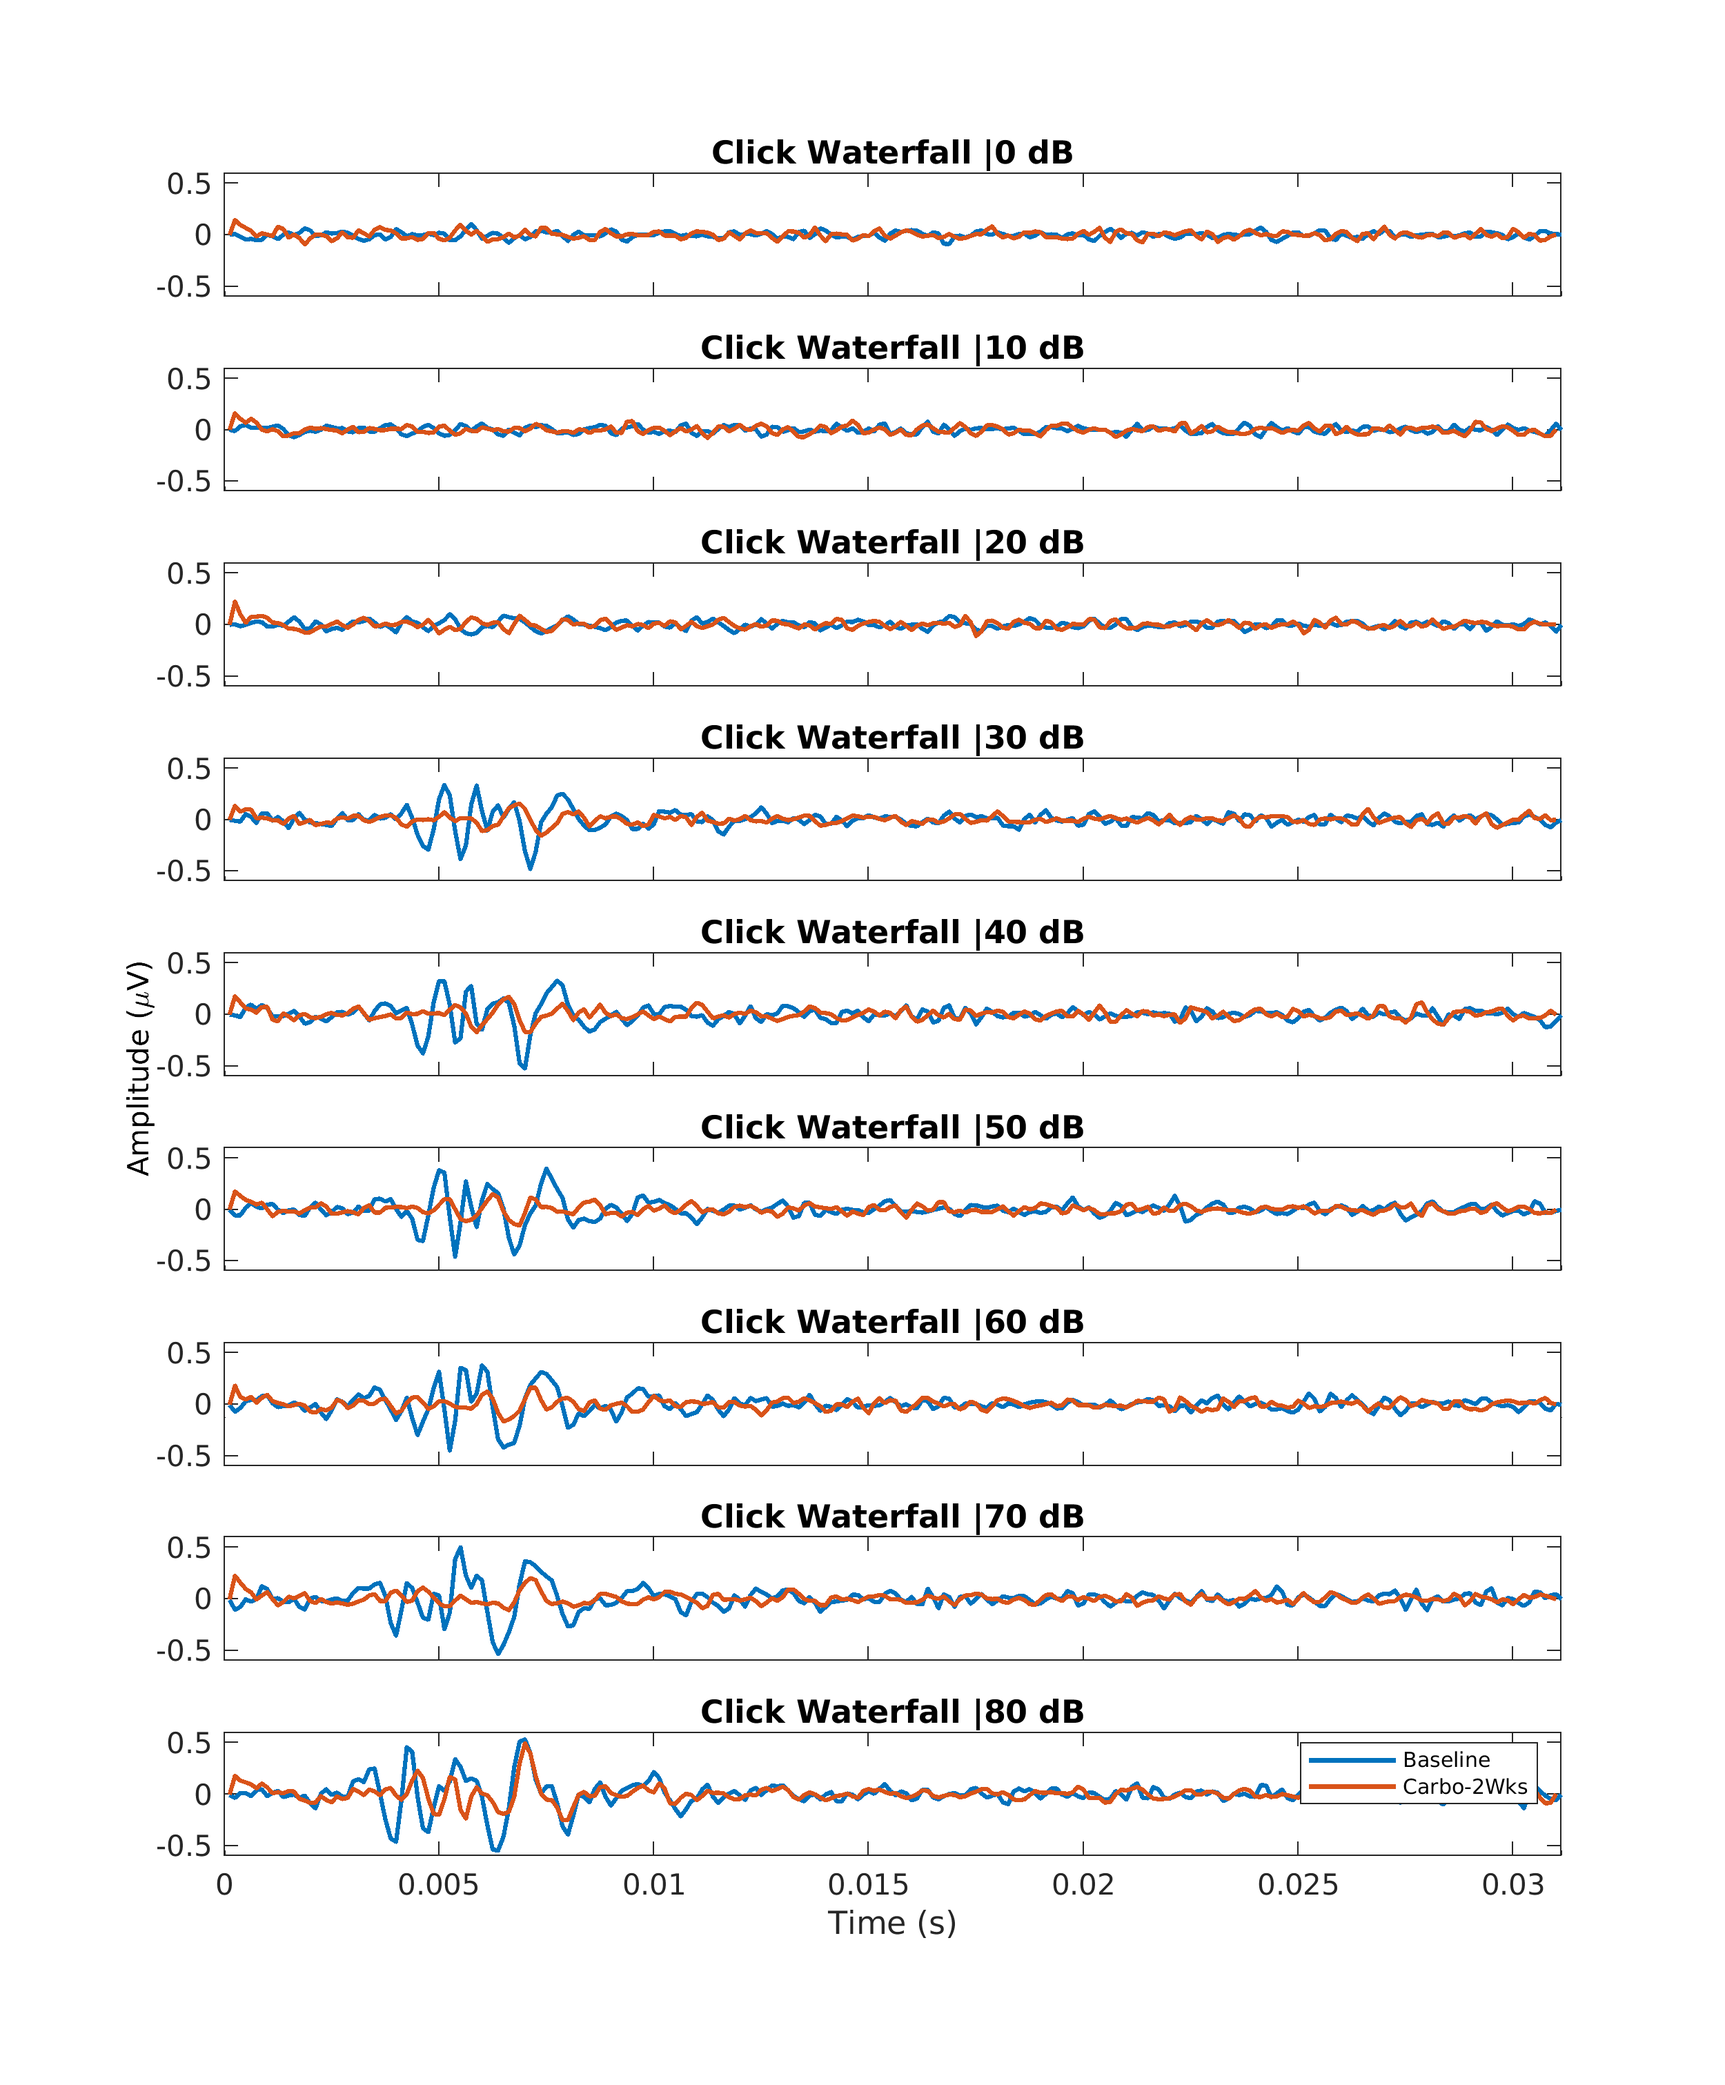
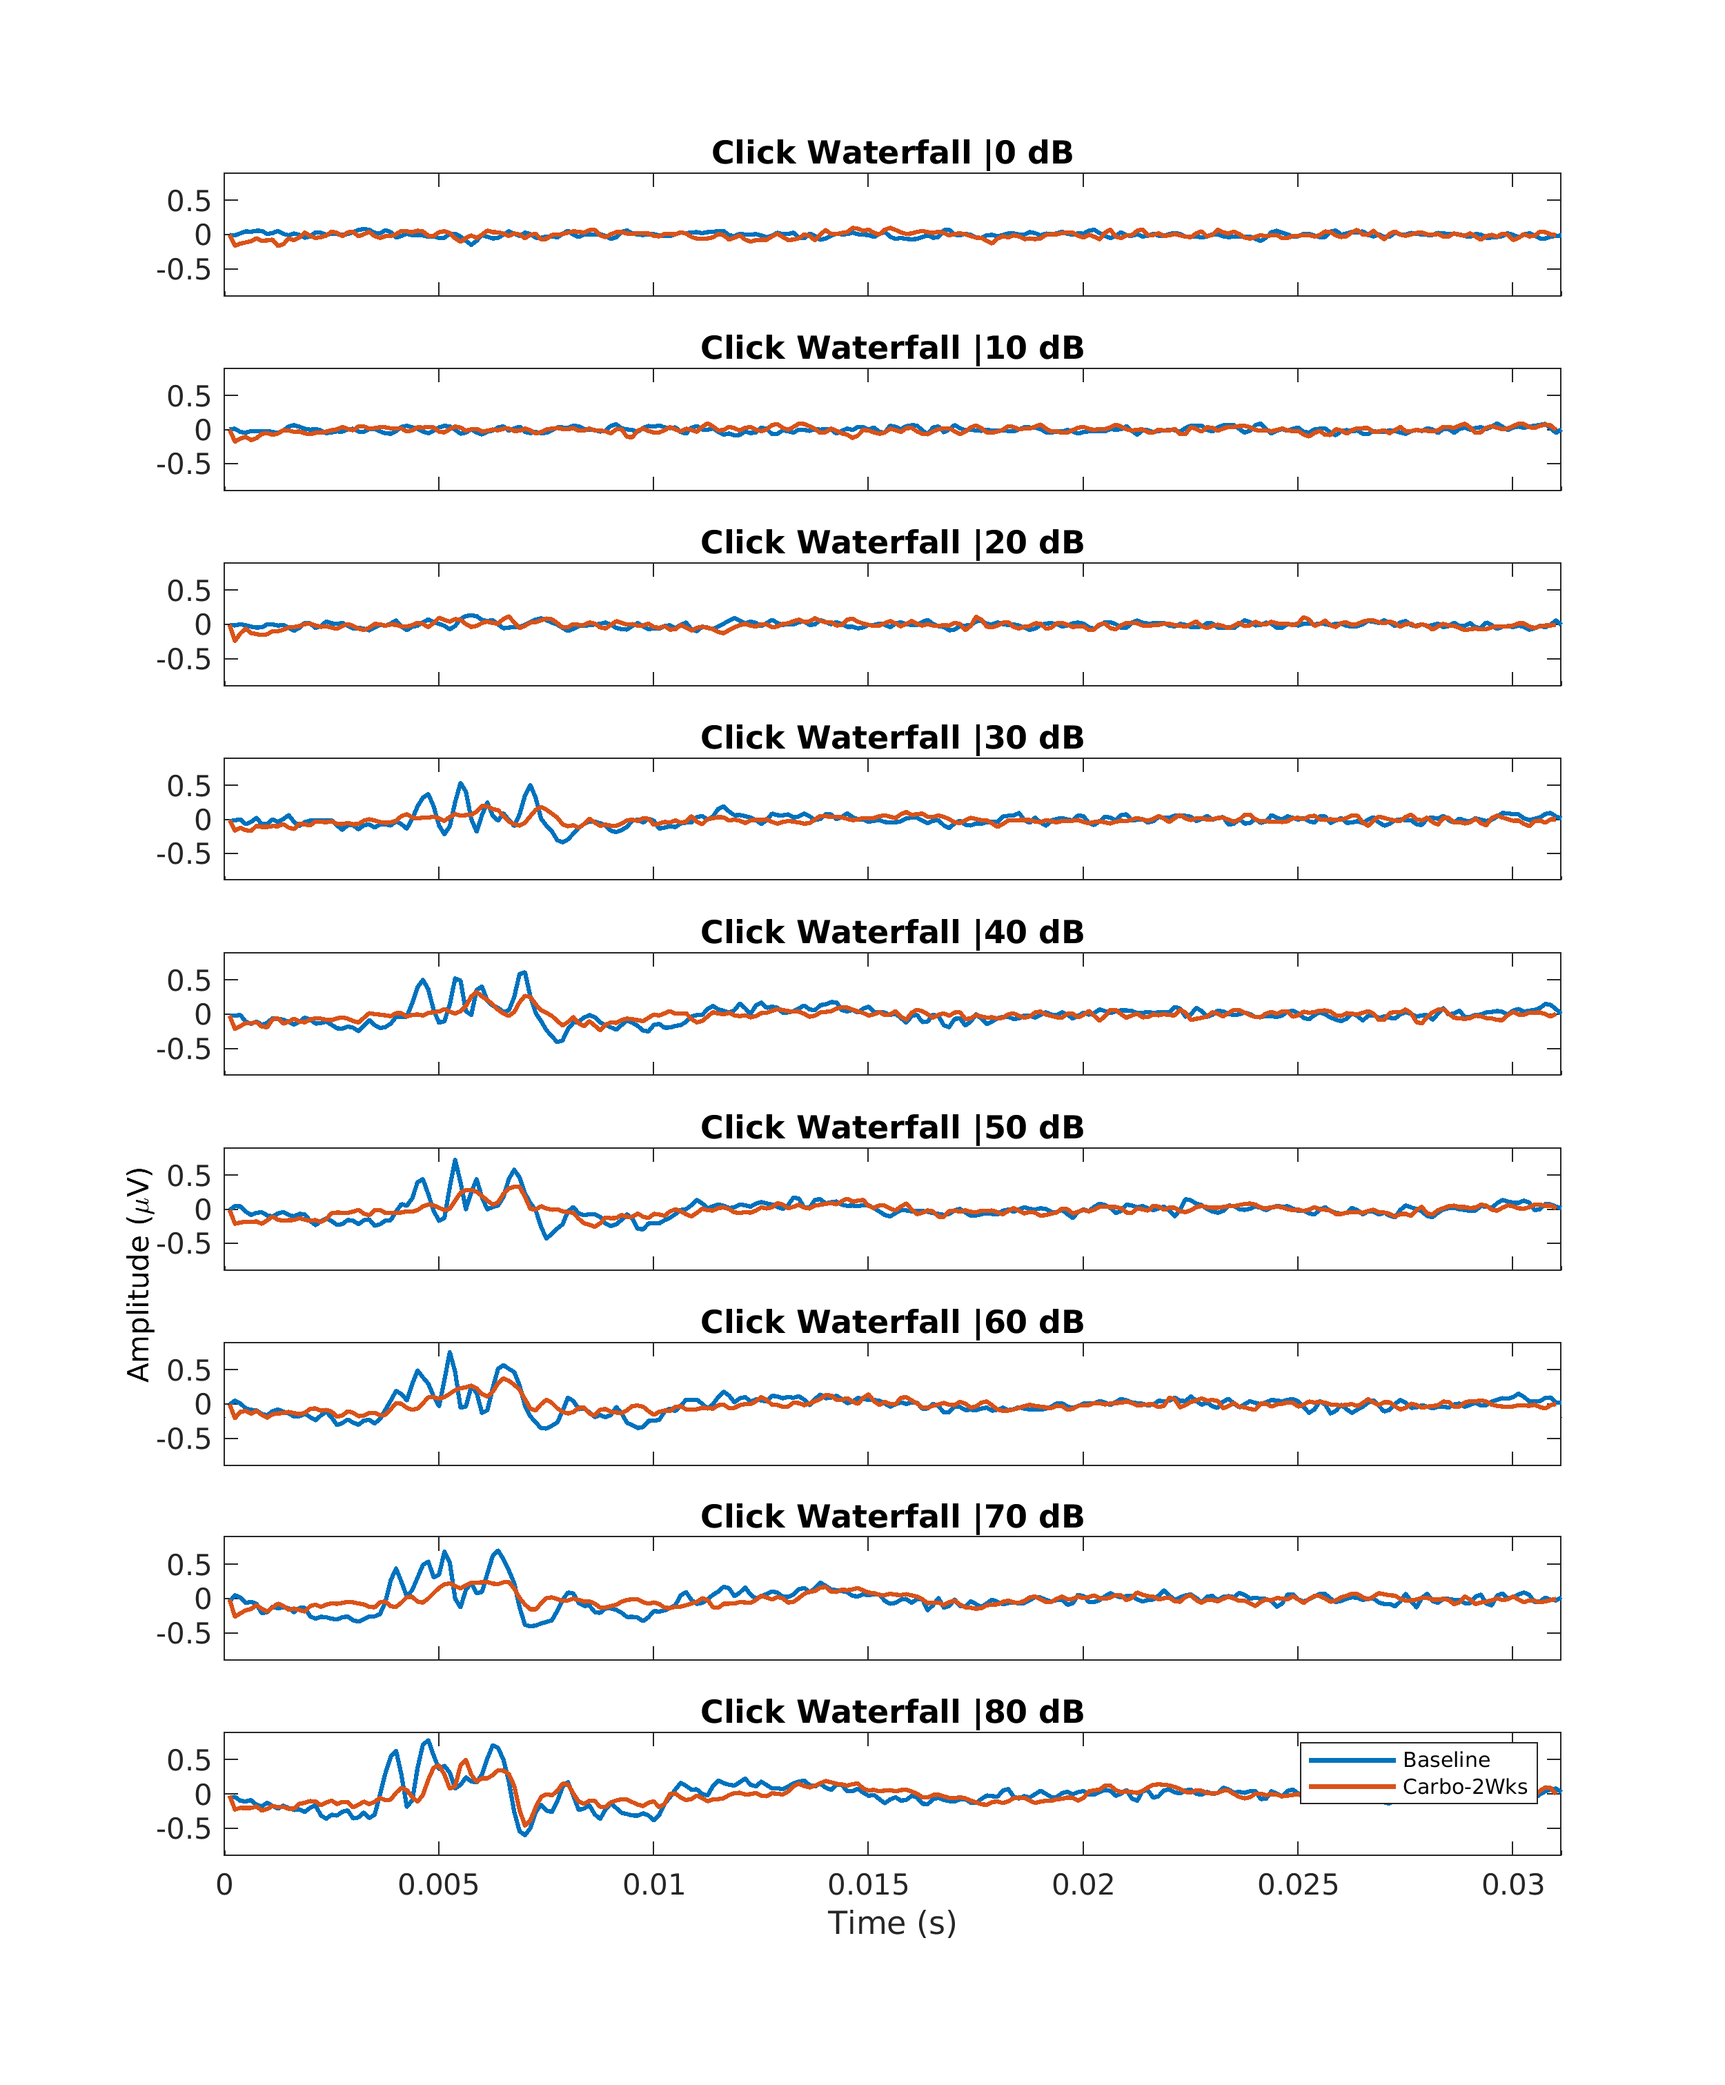
sample fig may have been flipped

diff --git a/abr_compare.m b/abr_compare.m
@@ -16,7 +16,7 @@ post_data_folder = 'Data/Q405/post/2weeksPostCA';
 %Files with our respective data/probe placements
 
 leg = ["Baseline","Carbo-2Wks"];
-scaling = [-1,1];
+scaling = [1,-1];
 
 %SPECIFY THE PIC NUMS YOU NEED!
 pre_click = [4:12];
@@ -28,13 +28,13 @@ post_4k = [13:21];
 % Looking at carbo 2wks vs carbo few months
 % pre_click = [4:9,12];
 % pre_4k = [13:18,21];
-
+% 
 % post_click = [4:10];
 % post_4k = [11:17];
 
 %Filtering/Resampling
 fs = 8e3; %to resample to
-cutoff = [300,3e3];
+cutoff = [100,3e3];
 
 [b,a] = butter(8,[cutoff(1),cutoff(2)]/(fs/2));
 
@@ -133,7 +133,7 @@ cd(cwd)
 
 %% Plotting
 time_ticks = [0:0.005:0.03];
-ylims = [-0.6,0.6];
+ylims = [-0.9,0.9];
 %click
 h1 = figure;
 %4k
@@ -231,5 +231,5 @@ text(-.002,6,0,'Amplitude (\muV)','Rotation',90);
 
 %% Figure Exporting in high quality (uncomment if exporting)
 % 
-% print(h1,'click_comparison','-r300','-dpng');
-% print(h2,'4k_comparison','-r300','-dpng');
+print(h1,'click_comparison','-r300','-dpng');
+print(h2,'4k_comparison','-r300','-dpng');
